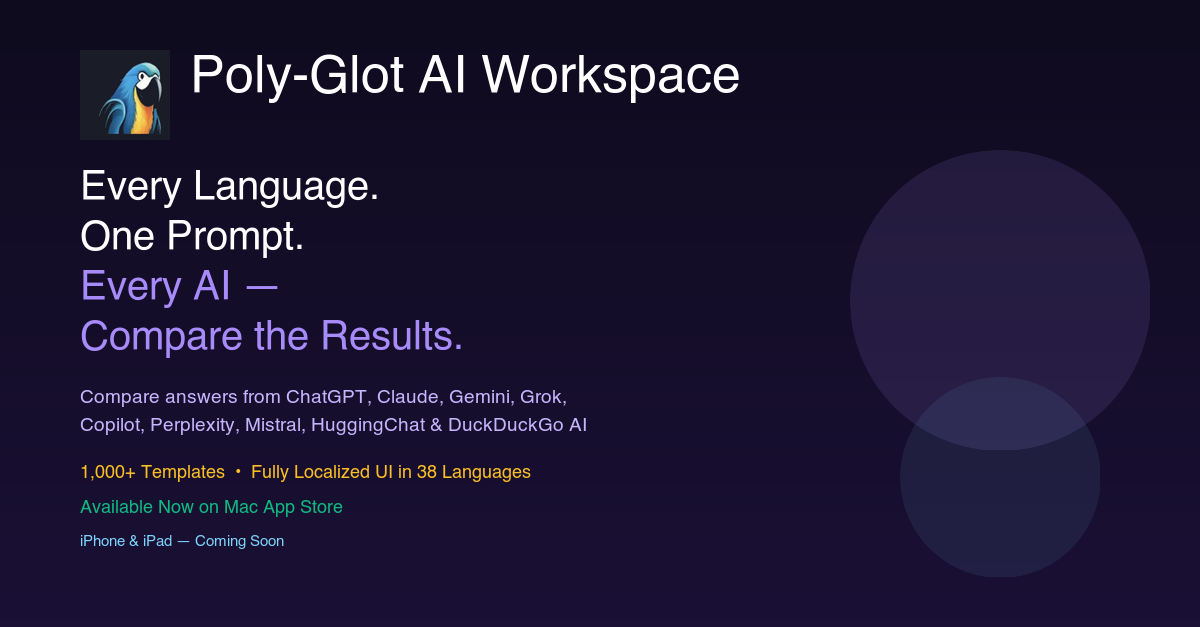
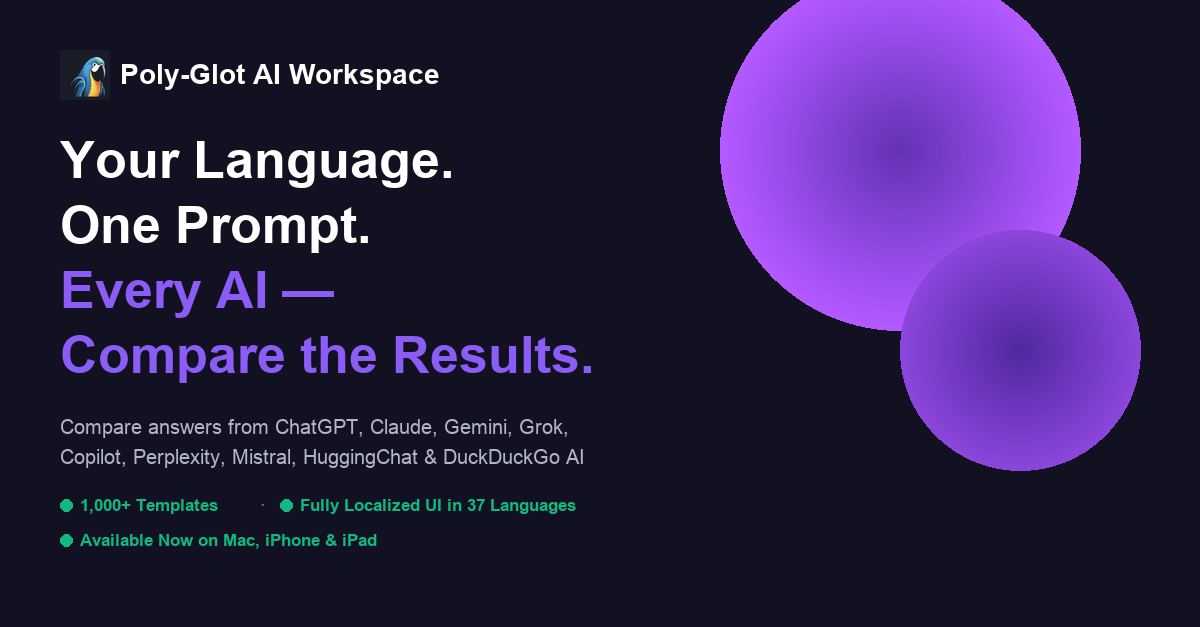
Update OG image: 'Your Language', 37 langs, Mac/iPhone/iPad available; bump cache v4

diff --git a/index.html b/index.html
@@ -10,7 +10,7 @@
 <meta property="og:description" content="One app. All the top AIs. Compare answers from ChatGPT, Claude, Gemini, Grok, Copilot, Perplexity, Mistral, HuggingChat &amp; DuckDuckGo AI. 1,000+ templates. Fully localized UI in 37 languages. Download free on Mac, iPhone &amp; iPad.">
 <meta property="og:type" content="website">
 <meta property="og:url" content="https://hmoses.github.io/poly-glot-site/">
-<meta property="og:image" content="https://hmoses.github.io/poly-glot-site/assets/img/polyglot-og-2026.png?v=3">
+<meta property="og:image" content="https://hmoses.github.io/poly-glot-site/assets/img/polyglot-og-2026.png?v=4">
 <meta property="og:image:width" content="1200">
 <meta property="og:image:height" content="627">
 <meta name="twitter:card" content="summary_large_image">
